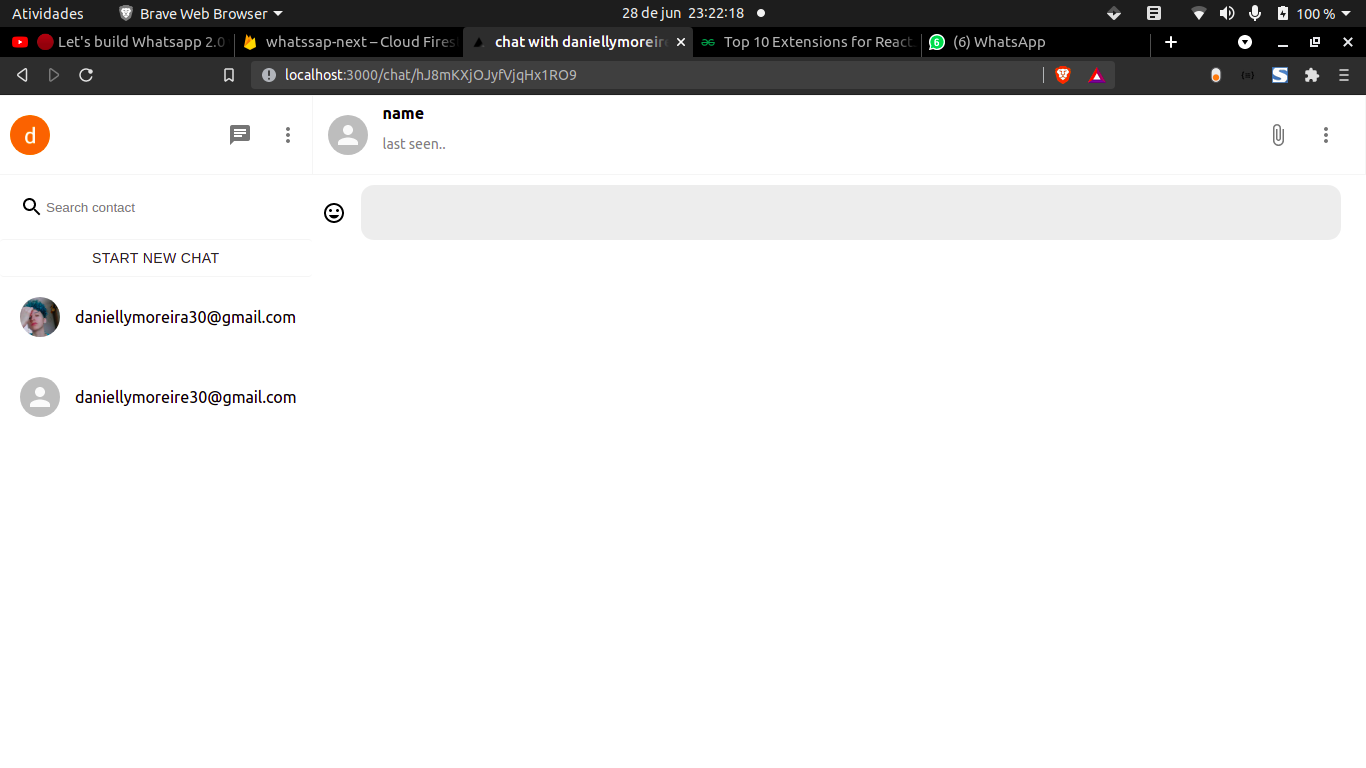
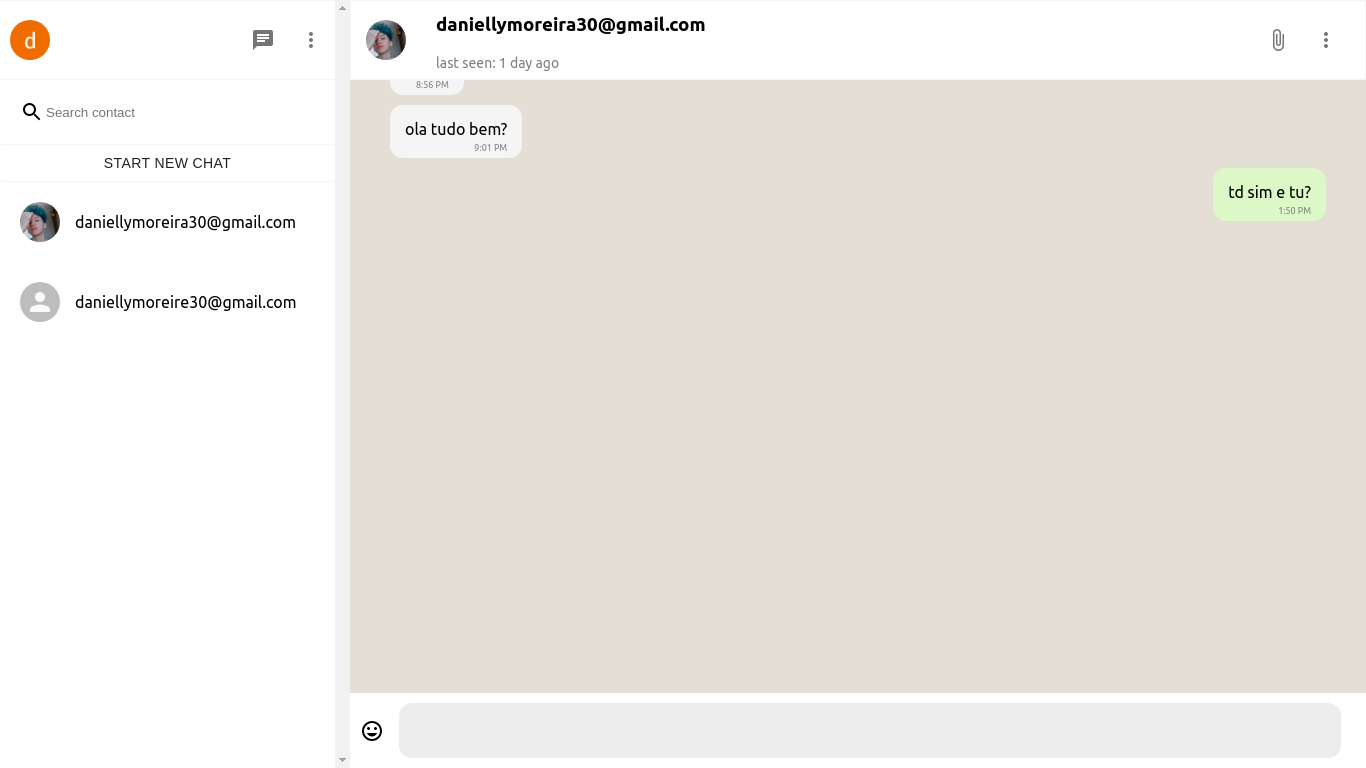
finish

diff --git a/components/ChatScreen/ChatScreen.js b/components/ChatScreen/ChatScreen.js
@@ -6,9 +6,15 @@ import { useCollection } from 'react-firebase-hooks/firestore';
 import styled from 'styled-components';
 import { auth, db } from '../../firebase';
 import Messages from '../Messages/Messages';
+import firebase from 'firebase';
+import { useRef, useState } from 'react';
+import GetRecipientEmail from '../../utils/GetRecipientEmail';
+import TimeAgo from 'timeago-react';
 
 function ChatScreen({ chat, messages }) {
   const [user] = useAuthState(auth);
+  const [input, setInput] = useState('');
+  const endOfMessagesRef = useRef(null);
   const router = useRouter();
   const [messagesSnapshot] = useCollection(
     db
@@ -29,15 +35,69 @@ function ChatScreen({ chat, messages }) {
           }}
         />
       ));
+    } else {
+      return JSON.parse(messages).map((message) => (
+        <Messages key={message.id} user={message.user} message={message} />
+      ));
     }
   };
+  const scrollToBottom = () => {
+    endOfMessagesRef.current.scrollIntoView({
+      behavior: 'smooth',
+      block: 'start',
+    });
+  };
+  const sendMessage = (e) => {
+    e.preventDefault();
+    db.collection('users').doc(user.uid).set(
+      {
+        lastSeen: firebase.firestore.FieldValue.serverTimestamp(),
+      },
+      { merge: true },
+    );
+
+    db.collection('chats').doc(router.query.id).collection('messages').add({
+      timestamp: firebase.firestore.FieldValue.serverTimestamp(),
+      message: input,
+      user: user.email,
+      photoURL: user.photoURL,
+    });
+    setInput('');
+    scrollToBottom();
+  };
+  //get data for how chat with
+  const recipientEmail = GetRecipientEmail(chat.users, user);
+
+  const [recipientSnapshot] = useCollection(
+    db.collection('users').where('email', '==', recipientEmail),
+  );
+  const recipient = recipientSnapshot?.docs?.[0]?.data();
+
   return (
     <Container>
       <Header>
-        <Avatar />
+        {recipient ? (
+          <UseAvatar src={recipient?.photoURL} />
+        ) : (
+          <UseAvatar src={recipientEmail[0]} />
+        )}
+        {/* <Avatar /> */}
         <ContactInformation>
-          <strong>name</strong>
-          <p>last seen..</p>
+          <strong>
+            <h3>{recipientEmail}</h3>
+          </strong>
+          {recipientSnapshot ? (
+            <p>
+              last seen:{' '}
+              {recipient?.lastSeen?.toDate() ? (
+                <TimeAgo datetime={recipient?.lastSeen?.toDate()} />
+              ) : (
+                'Never'
+              )}
+            </p>
+          ) : (
+            <p>On Loading</p>
+          )}
         </ContactInformation>
         <HeaderIcons>
           <IconButton>
@@ -50,11 +110,17 @@ function ChatScreen({ chat, messages }) {
       </Header>
       <MessageContainer>
         {showMessages()}
-        <EndOfMessages />
+        <EndOfMessages ref={endOfMessagesRef} />
       </MessageContainer>
       <InputContainer>
         <InsertEmoticon />
-        <Input />
+        <Input value={input} onChange={(e) => setInput(e.target.value)} />
+        <button
+          hidden
+          disabled={!input}
+          type='submit'
+          onClick={sendMessage}
+        ></button>
       </InputContainer>
     </Container>
   );
@@ -87,7 +153,11 @@ const ContactInformation = styled.div`
   }
 `;
 const HeaderIcons = styled.div``;
-const MessageContainer = styled.div``;
+const MessageContainer = styled.div`
+  background-color: #e5ded5;
+  min-height: 90vh;
+  padding: 30px;
+`;
 const EndOfMessages = styled.div``;
 const InputContainer = styled.form`
   position: sticky;
@@ -109,4 +179,7 @@ const Input = styled.input`
   flex: 1;
   align-items: center;
   outline: 0;
+`;
+const UseAvatar = styled(Avatar)`
+  margin-right: 15px;
 `;

diff --git a/components/Messages/Messages.js b/components/Messages/Messages.js
@@ -1,8 +1,19 @@
 import styled from 'styled-components';
+import { auth } from '../../firebase';
+import { useAuthState } from 'react-firebase-hooks/auth';
+import moment from 'moment';
+
 function Messages({ user, message }) {
+  const [userLoggedIn] = useAuthState(auth);
+  const TypeOfUser = user === userLoggedIn?.email ? Sender : Receiver;
   return (
     <Container>
-      <p>message page</p>
+      <TypeOfUser>
+        {message.message}
+        <Timestamp>
+          {message.timestamp ? moment(message.timestamp).format('LT') : '..'}
+        </Timestamp>
+      </TypeOfUser>
     </Container>
   );
 }
@@ -10,3 +21,32 @@ function Messages({ user, message }) {
 export default Messages;
 
 const Container = styled.div``;
+const MARGIN = '10px';
+const MessageElement = styled.p`
+  width: fit-content;
+  padding: 15px;
+  border-radius: 13px;
+  margin: ${MARGIN};
+  padding-bottom: 20px;
+  position: relative;
+  text-align: right;
+  min-width: 60px;
+`;
+const Receiver = styled(MessageElement)`
+  text-align: left;
+  background-color: whitesmoke;
+`;
+const Sender = styled(MessageElement)`
+  margin-left: auto;
+  background-color: #dcf8c6;
+`;
+const Timestamp = styled.span`
+  font-size: 9px;
+  color: gray;
+  padding: 5px;
+  text-align: right;
+  position: absolute;
+  right: 0;
+  bottom: 0;
+  margin-right: ${MARGIN};
+`;

diff --git a/components/Sidebar/index.js b/components/Sidebar/index.js
@@ -86,9 +86,22 @@ const SidebarButton = styled(Button)`
     border-top: 1px solid whitesmoke;
   }
 `;
+const Container = styled.div`
+  flex: 0.45;
+  min-width: 300px;
+  max-width: 350px;
+  height: 100vh;
+  border-color: 1px solid whitesmoke;
+  */ ::-webkit-scrollbar {
+    display: none;
+  }
+  overflow-y: scroll;
+  -ms-overflow-style: none; // edge / brave
+  scrollbar-width: none; //fiferox
+`;
+
 const IconsContainer = styled.div``;
 
-const Container = styled.div``;
 const Header = styled.div`
   background-color: white;
   height: 80px;

diff --git a/pages/chat/[id].js b/pages/chat/[id].js
@@ -27,13 +27,13 @@ export default Chat;
 
 export async function getServerSideProps(context) {
   const ref = db.collection('chats').doc(context.query.id);
-  const messagesRef = await ref
+  const messagesRes = await ref
     .collection('messages')
     .orderBy('timestamp', 'asc')
     .get();
 
-  const messages = messagesRef.docs
-    .map(() => ({
+  const messages = messagesRes.docs
+    .map((doc) => ({
       id: doc.id,
       ...doc.data(),
     }))

diff --git a/README.md b/README.md
@@ -1,8 +1,8 @@
 <p align="center">
-  <img alt="whatssap-home" src="./whatsapp60.png" width="100% "
+  <img alt="whatsapp-home" src="./whatsapp60.png" width="100% "
   >
 </p>
-<p align='center'> Whatssap 2/3 finish<p/>
+<p align='center'> finish<p/>
 
 <p align="center">
   <a href="#-projeto">Projeto</a>&nbsp;&nbsp;&nbsp;|&nbsp;&nbsp;&nbsp;
